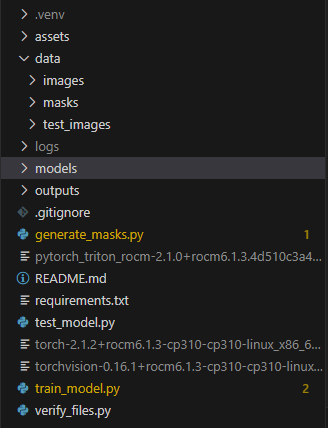
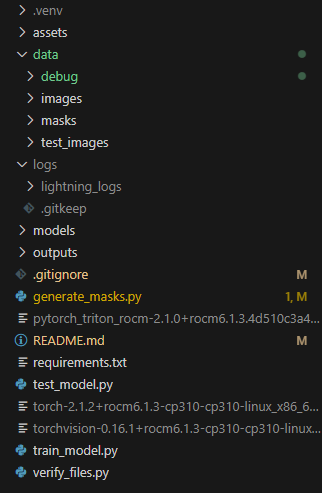
fix/start-to-improve-mask-generation-debugging

Changed region(s): [[0.0, 0.0, 0.9938, 0.972], [0.9317, 0.1519, 0.9627, 0.1822], [0.9317, 0.0911, 0.9627, 0.1215]]

diff --git a/generate_masks.py b/generate_masks.py
@@ -3,8 +3,11 @@ import glob
 import cv2
 import numpy as np
 
-def generate_document_masks(image_dir, mask_dir):
+def generate_document_masks(image_dir, mask_dir, debug_dir=None):
     os.makedirs(mask_dir, exist_ok=True)
+    if debug_dir:
+        os.makedirs(debug_dir, exist_ok=True)
+
     image_paths = glob.glob(os.path.join(image_dir, "*.jpg"))
     if not image_paths:
         print(f"Aucune image trouvée dans {image_dir}.")
@@ -18,31 +21,46 @@ def generate_document_masks(image_dir, mask_dir):
 
         blurred = cv2.GaussianBlur(image, (5, 5), 0)
 
-        _, thresh = cv2.threshold(blurred, 0, 255, cv2.THRESH_BINARY + cv2.THRESH_OTSU)
+        clahe = cv2.createCLAHE(clipLimit=2.0, tileGridSize=(8, 8))
+        equalized = clahe.apply(blurred)
 
-        contours, _ = cv2.findContours(thresh, cv2.RETR_EXTERNAL, cv2.CHAIN_APPROX_SIMPLE)
+        _, thresh = cv2.threshold(equalized, 0, 255, cv2.THRESH_BINARY + cv2.THRESH_OTSU)
 
+        kernel = cv2.getStructuringElement(cv2.MORPH_RECT, (5, 5))
+        cleaned = cv2.morphologyEx(thresh, cv2.MORPH_CLOSE, kernel)
+
+        contours, _ = cv2.findContours(cleaned, cv2.RETR_EXTERNAL, cv2.CHAIN_APPROX_SIMPLE)
         mask = np.zeros_like(image)
 
         for contour in contours:
-            epsilon = 0.02 * cv2.arcLength(contour, True)
+            epsilon = 0.01 * cv2.arcLength(contour, True)
             approx = cv2.approxPolyDP(contour, epsilon, True)
 
-
-            if len(approx) == 4 and cv2.contourArea(approx) > 1000:
-
-                cv2.drawContours(mask, [approx], -1, (255), thickness=cv2.FILLED)
+            if len(approx) == 4 and 1000 < cv2.contourArea(approx) < 1e6:
+                x, y, w, h = cv2.boundingRect(approx)
+                aspect_ratio = h / w
+                if 0.5 < aspect_ratio < 2.0: 
+                    cv2.drawContours(mask, [approx], -1, (255), thickness=cv2.FILLED)
 
         mask_path = os.path.join(mask_dir, os.path.basename(image_path))
         cv2.imwrite(mask_path, mask)
         print(f"Masque généré pour {image_path} -> {mask_path}")
 
+        if debug_dir:
+            overlay = cv2.cvtColor(image, cv2.COLOR_GRAY2BGR)
+            mask_colored = cv2.merge([mask, mask, mask])
+            overlay = cv2.addWeighted(overlay, 0.7, mask_colored, 0.3, 0)
+            debug_path = os.path.join(debug_dir, os.path.basename(image_path))
+            cv2.imwrite(debug_path, overlay)
+            print(f"Image avec masque superposé sauvegardée dans {debug_path}")
+
 if __name__ == "__main__":
-    image_dir = "data/images"  
-    mask_dir = "data/masks"    
+    image_dir = "data/images"
+    mask_dir = "data/masks"
+    debug_dir = "data/debug"
 
     if not os.path.exists(image_dir):
         raise FileNotFoundError(f"Le dossier {image_dir} n'existe pas.")
     
-    generate_document_masks(image_dir, mask_dir)
+    generate_document_masks(image_dir, mask_dir, debug_dir)
     print(f"Tous les masques ont été générés dans {mask_dir}.")

diff --git a/README.md b/README.md
@@ -17,6 +17,7 @@ Le projet **Document Detector** utilise **PyTorch Lightning** pour entraîner un
 - **`data/`** : Données utilisées pour l'entraînement et les tests.
   - `images/` : Images d'entraînement.
   - `masks/` : Masques d'entraînement correspondants.
+  - `debug/` : Contient les images de debug, où les masques générés sont superposés aux images originales. Ces fichiers permettent de vérifier visuellement la qualité et la pertinence des masques.
   - `test_images/` : Images de test pour vérifier les performances du modèle.
 
 - **`models/`** : Fichiers des modèles sauvegardés :
@@ -79,6 +80,13 @@ Le script utilise OpenCV pour détecter automatiquement les documents dans les i
 - Masque Final : Dessine le quadrilatère détecté.
 
 ##### Les masques générés sont sauvegardés dans le dossier ```data/masks/```
+
+#### Débogage Visuel
+
+En cas de besoin, un répertoire ```debug/``` est utilisé pour sauvegarder des images où les masques générés sont superposés aux images originales. Cela permet de vérifier visuellement que les contours détectés et les masques générés sont conformes aux attentes.
+
+- Les fichiers dans ```debug/``` aident à repérer rapidement les images problématiques.
+
 
 ### Entraîner le Modèle
 Dans le terminal principal, exécutez la commande suivante pour lancer l'entraînement :
@@ -229,8 +237,12 @@ python test_model.py
 
 Voici la sortie générée par ce script :
 
+![Exemple d'image](assets/result.png)
+
+(je sais il reste du travail au vu du résultat mais vous avez l'idée)
+
 - Image originale : Affiche l'image d'entrée brute.
-- Masque attendu : Masque manuel utilisé pour l'entraînement.
+- Masque attendu : Masque utilisé pour l'entraînement.
 - Masque prédit : Généré automatiquement par le modèle.
 - Image recadrée : Image finale extraite en fonction des prédictions
 
